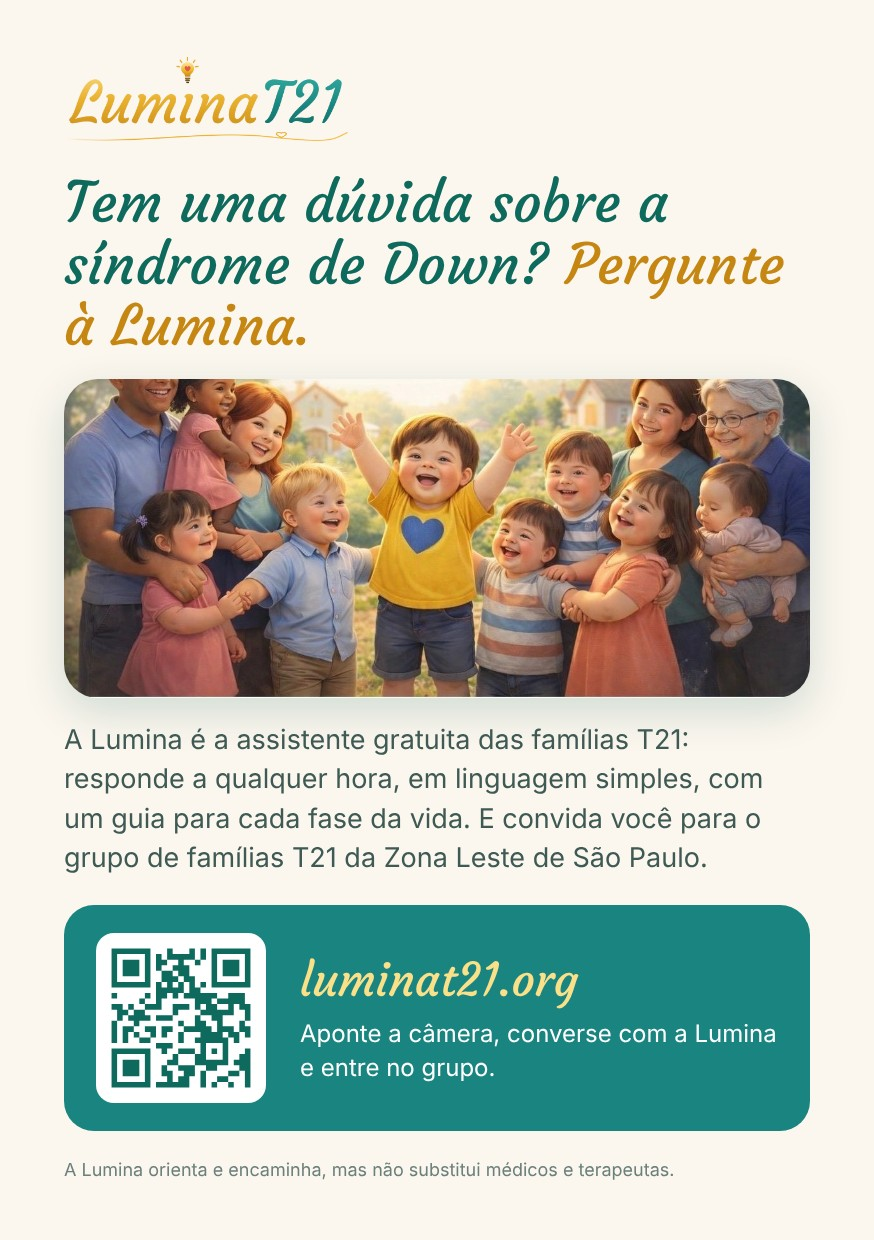
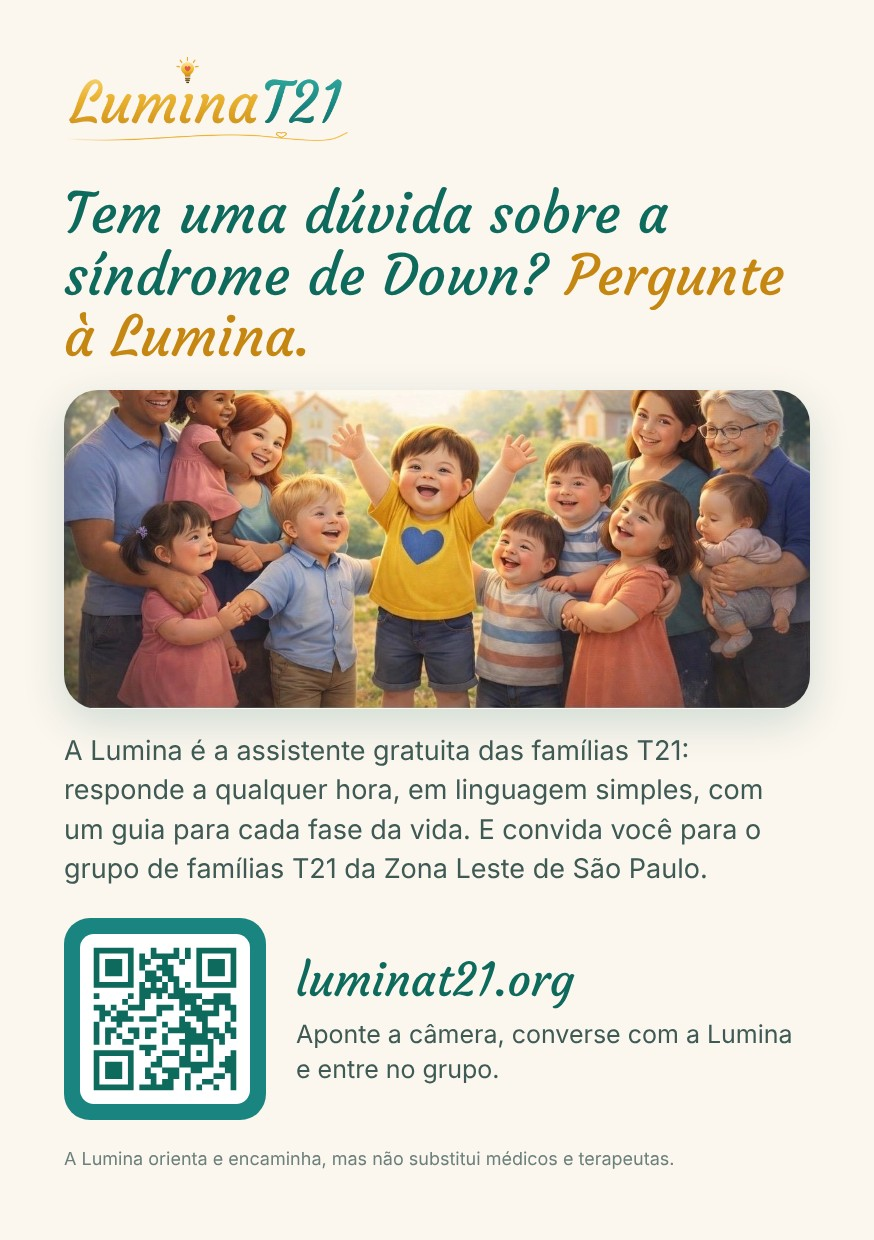
LuminaT21: flyer com o texto do QR fora do quadro verde
Claude-Session: https://claude.ai/code/session_013wqKux7qHbRAJMaH62mhbc

diff --git a/luminat21/divulgacao/flyer-a5.html b/luminat21/divulgacao/flyer-a5.html
@@ -12,4 +12,4 @@ p.t{font-size:38px;line-height:1.45;color:#3f5a55;margin-top:28px}
 .av{font-size:22px;color:#6b7f7b;margin-top:26px;line-height:1.4}
 .pg{position:absolute;right:84px;bottom:52px;font-size:24px;color:#9aaba7;font-weight:700}.ar{position:absolute;left:84px;bottom:52px;font-size:26px;color:#1A8580;font-weight:700}
 .heart{color:#E2574C}
-</style></head><body><div class="w"><img class="logo" src="logo.png"><div class="ct"><h1 style="font-size:56px">Tem uma dúvida sobre a síndrome de Down? <span>Pergunte à Lumina.</span></h1><img class="foto" src="familias.jpg" style="margin-top:22px"><p class="t" style="font-size:27px;margin-top:22px">A Lumina é a assistente gratuita das famílias T21: responde a qualquer hora, em linguagem simples, com um guia para cada fase da vida. E convida você para o grupo de famílias T21 da Zona Leste de São Paulo.</p><div class="cta" style="margin-top:28px;padding:28px 32px"><img src="qr.svg" style="width:170px"><div><b style="font-size:46px">luminat21.org</b><span style="font-size:24px">Aponte a câmera, converse com a Lumina e entre no grupo.</span></div></div><p class="av" style="font-size:18px">A Lumina orienta e encaminha, mas não substitui médicos e terapeutas.</p></div></div></body></html>
+</style></head><body><div class="w"><img class="logo" src="logo.png"><div class="ct"><h1 style="font-size:56px">Tem uma dúvida sobre a síndrome de Down? <span>Pergunte à Lumina.</span></h1><img class="foto" src="familias.jpg" style="margin-top:22px"><p class="t" style="font-size:27px;margin-top:22px">A Lumina é a assistente gratuita das famílias T21: responde a qualquer hora, em linguagem simples, com um guia para cada fase da vida. E convida você para o grupo de famílias T21 da Zona Leste de São Paulo.</p><div style="margin-top:30px;display:flex;gap:30px;align-items:center"><div style="background:#1A8580;border-radius:26px;padding:16px;flex-shrink:0"><img src="qr.svg" style="width:170px;display:block;background:#fff;border-radius:14px;padding:8px"></div><div><b style="font-family:Courgette;font-weight:400;font-size:46px;display:block;color:#0F6A5E">luminat21.org</b><span style="font-size:25px;display:block;margin-top:8px;line-height:1.4;color:#3f5a55">Aponte a câmera, converse com a Lumina e entre no grupo.</span></div></div><p class="av" style="font-size:18px">A Lumina orienta e encaminha, mas não substitui médicos e terapeutas.</p></div></div></body></html>

diff --git a/luminat21/divulgacao/gerar.py b/luminat21/divulgacao/gerar.py
@@ -27,7 +27,7 @@ S=[
 '<h2>Converse com a <span>Lumina</span></h2><div class="cta"><img src="qr.svg"><div><b>luminat21.org</b><span>Abra no celular e toque em instalar para ter a Lumina na tela inicial.</span></div></div><p class="t" style="font-size:32px">A luz do amor <span class="heart">♥</span> a força da inclusão.</p>'+AV,
 ]
 ST='<h1 style="font-size:84px">Tem uma dúvida sobre a síndrome de Down? <span>Pergunte à Lumina.</span></h1><img class="foto" src="familias.jpg"><div class="cta"><img src="qr.svg"><div><b>luminat21.org</b><span>Gratuita, a qualquer hora.</span></div></div>'
-FLY='<h1 style="font-size:56px">Tem uma dúvida sobre a síndrome de Down? <span>Pergunte à Lumina.</span></h1><img class="foto" src="familias.jpg" style="margin-top:22px"><p class="t" style="font-size:27px;margin-top:22px">A Lumina é a assistente gratuita das famílias T21: responde a qualquer hora, em linguagem simples, com um guia para cada fase da vida. E convida você para o grupo de famílias T21 da Zona Leste de São Paulo.</p><div class="cta" style="margin-top:28px;padding:28px 32px"><img src="qr.svg" style="width:170px"><div><b style="font-size:46px">luminat21.org</b><span style="font-size:24px">Aponte a câmera, converse com a Lumina e entre no grupo.</span></div></div><p class="av" style="font-size:18px">A Lumina orienta e encaminha, mas não substitui médicos e terapeutas.</p>'
+FLY='<h1 style="font-size:56px">Tem uma dúvida sobre a síndrome de Down? <span>Pergunte à Lumina.</span></h1><img class="foto" src="familias.jpg" style="margin-top:22px"><p class="t" style="font-size:27px;margin-top:22px">A Lumina é a assistente gratuita das famílias T21: responde a qualquer hora, em linguagem simples, com um guia para cada fase da vida. E convida você para o grupo de famílias T21 da Zona Leste de São Paulo.</p><div style="margin-top:30px;display:flex;gap:30px;align-items:center"><div style="background:#1A8580;border-radius:26px;padding:16px;flex-shrink:0"><img src="qr.svg" style="width:170px;display:block;background:#fff;border-radius:14px;padding:8px"></div><div><b style="font-family:Courgette;font-weight:400;font-size:46px;display:block;color:#0F6A5E">luminat21.org</b><span style="font-size:25px;display:block;margin-top:8px;line-height:1.4;color:#3f5a55">Aponte a câmera, converse com a Lumina e entre no grupo.</span></div></div><p class="av" style="font-size:18px">A Lumina orienta e encaminha, mas não substitui médicos e terapeutas.</p>'
 async def main():
     async with async_playwright() as p:
         b=await p.chromium.launch(executable_path="/usr/bin/google-chrome")
